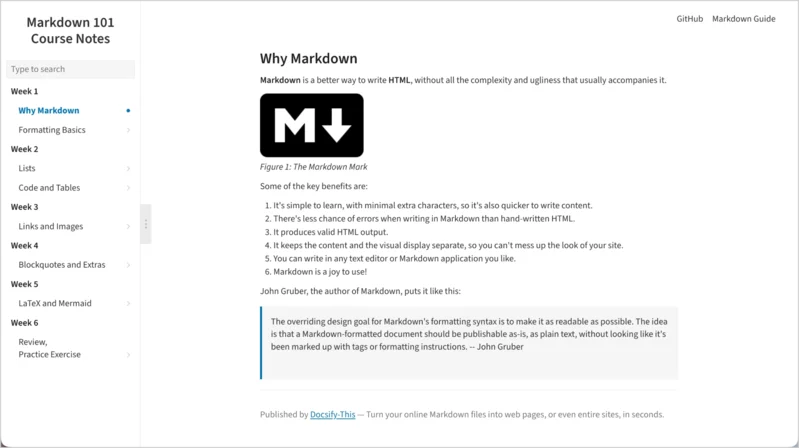
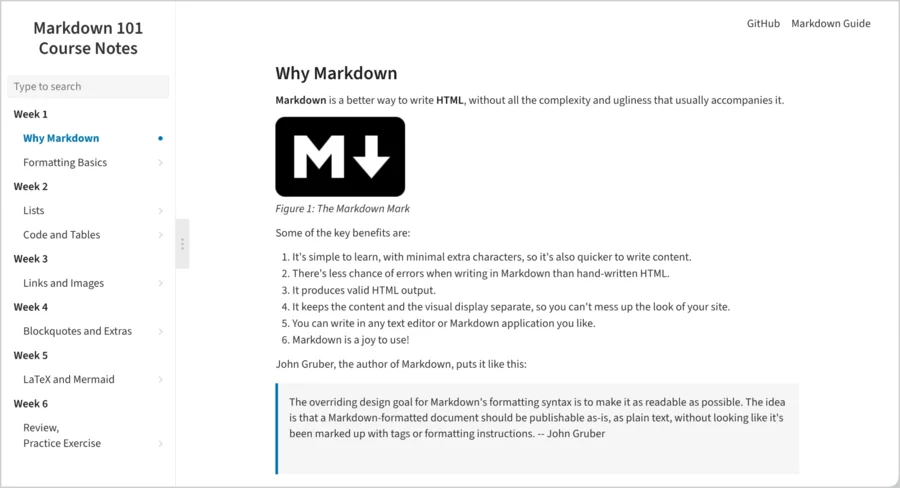
Update screenshots.

diff --git a/creating-github-course-notes.html b/creating-github-course-notes.html
@@ -142,12 +142,12 @@
 
     <div class="shot-pair">
       <figure>
-        <a href="https://docsify-this.net/?basePath=https://raw.githubusercontent.com/hibbitts-design/demo-docsify-markdown-101-course-notes/main/docs&amp;homepage=README.md&amp;sidebar=true&amp;maxLevel=3&amp;loadSidebar=_sidebar.md&amp;loadNavbar=_navbar.md&amp;name=Markdown%20101%20Course%20Notes&amp;searchbox=true#/01-why-markdown" target="_blank" rel="noopener"><img src="assets/screenshots/markdown101-docsify-this-sidebar.webp" width="799" height="448" alt="The Markdown 101 course notes displayed with Docsify-This, showing a full site-wide sidebar and search box, using default styling"></a>
+        <a href="https://docsify-this.net/?basePath=https://raw.githubusercontent.com/hibbitts-design/demo-docsify-markdown-101-course-notes/main/docs&amp;homepage=README.md&amp;sidebar=true&amp;maxLevel=3&amp;loadSidebar=_sidebar.md&amp;loadNavbar=_navbar.md&amp;name=Markdown%20101%20Course%20Notes&amp;searchbox=true#/01-why-markdown" target="_blank" rel="noopener"><img src="assets/screenshots/markdown101-docsify-this-sidebar.webp" width="900" height="488" alt="The Markdown 101 course notes displayed with Docsify-This, showing a full site-wide sidebar and search box, using default styling"></a>
         <figcaption>The full course, displayed with Docsify-This.</figcaption>
       </figure>
       <figure>
-        <a href="https://hibbitts-design.github.io/demo-docsify-markdown-101-course-notes/#/01-why-markdown" target="_blank" rel="noopener"><img src="assets/screenshots/markdown101-starter-kit-custom.webp" width="799" height="448" alt="The same course notes deployed as a Docsify Open Course Starter Kit site, with custom CSS styling and an Edit this Page link"></a>
-        <figcaption>The same course, deployed with custom CSS and its own&nbsp;URL.</figcaption>
+        <a href="https://hibbitts-design.github.io/demo-docsify-markdown-101-course-notes/#/01-why-markdown" target="_blank" rel="noopener"><img src="assets/screenshots/markdown101-starter-kit-custom.webp" width="900" height="488" alt="The same course notes deployed as a Docsify Open Course Starter Kit site, with custom CSS styling and an Edit this Page link"></a>
+        <figcaption>The same course, deployed as a Docsify Open Course Starter Kit site with custom CSS and its own&nbsp;URL.</figcaption>
       </figure>
     </div>
 

diff --git a/viewing-github-course-notes.html b/viewing-github-course-notes.html
@@ -130,11 +130,11 @@
 
     <div class="shot-pair">
       <figure>
-        <a href="https://github.com/paulhibbitts/markdown-101-course-notes/blob/main/05-links-and-images.md" target="_blank" rel="noopener"><img src="assets/screenshots/markdown101-github.webp" width="800" height="560" alt="A course page viewed on GitHub, with no sidebar or search"></a>
+        <a href="https://github.com/paulhibbitts/markdown-101-course-notes/blob/main/05-links-and-images.md" target="_blank" rel="noopener"><img src="assets/screenshots/markdown101-github.webp" width="900" height="488" alt="A course page viewed on GitHub, with no sidebar or search"></a>
         <figcaption>An example page, from a course repo built for this guide.</figcaption>
       </figure>
       <figure>
-        <a href="https://docsify-this.net/?basePath=https://raw.githubusercontent.com/paulhibbitts/markdown-101-course-notes/main&amp;homepage=README.md&amp;sidebar=true&amp;hide-credits=true&amp;maxLevel=3&amp;name=Markdown%20101&amp;searchbox=true&amp;zoom-images=true&amp;dark-mode=auto#/05-links-and-images" target="_blank" rel="noopener"><img src="assets/screenshots/markdown101-docsify.webp" width="800" height="560" alt="The same page displayed with Docsify-This, showing a sidebar outline generated from its headings and a search box"></a>
+        <a href="https://docsify-this.net/?basePath=https://raw.githubusercontent.com/paulhibbitts/markdown-101-course-notes/main&amp;homepage=README.md&amp;sidebar=true&amp;hide-credits=true&amp;maxLevel=3&amp;name=Markdown%20101&amp;searchbox=true&amp;zoom-images=true&amp;dark-mode=auto#/05-links-and-images" target="_blank" rel="noopener"><img src="assets/screenshots/markdown101-docsify.webp" width="900" height="488" alt="The same page displayed with Docsify-This, showing a sidebar outline generated from its headings and a search box"></a>
         <figcaption>The exact same file, displayed with Docsify-This.</figcaption>
       </figure>
     </div>
